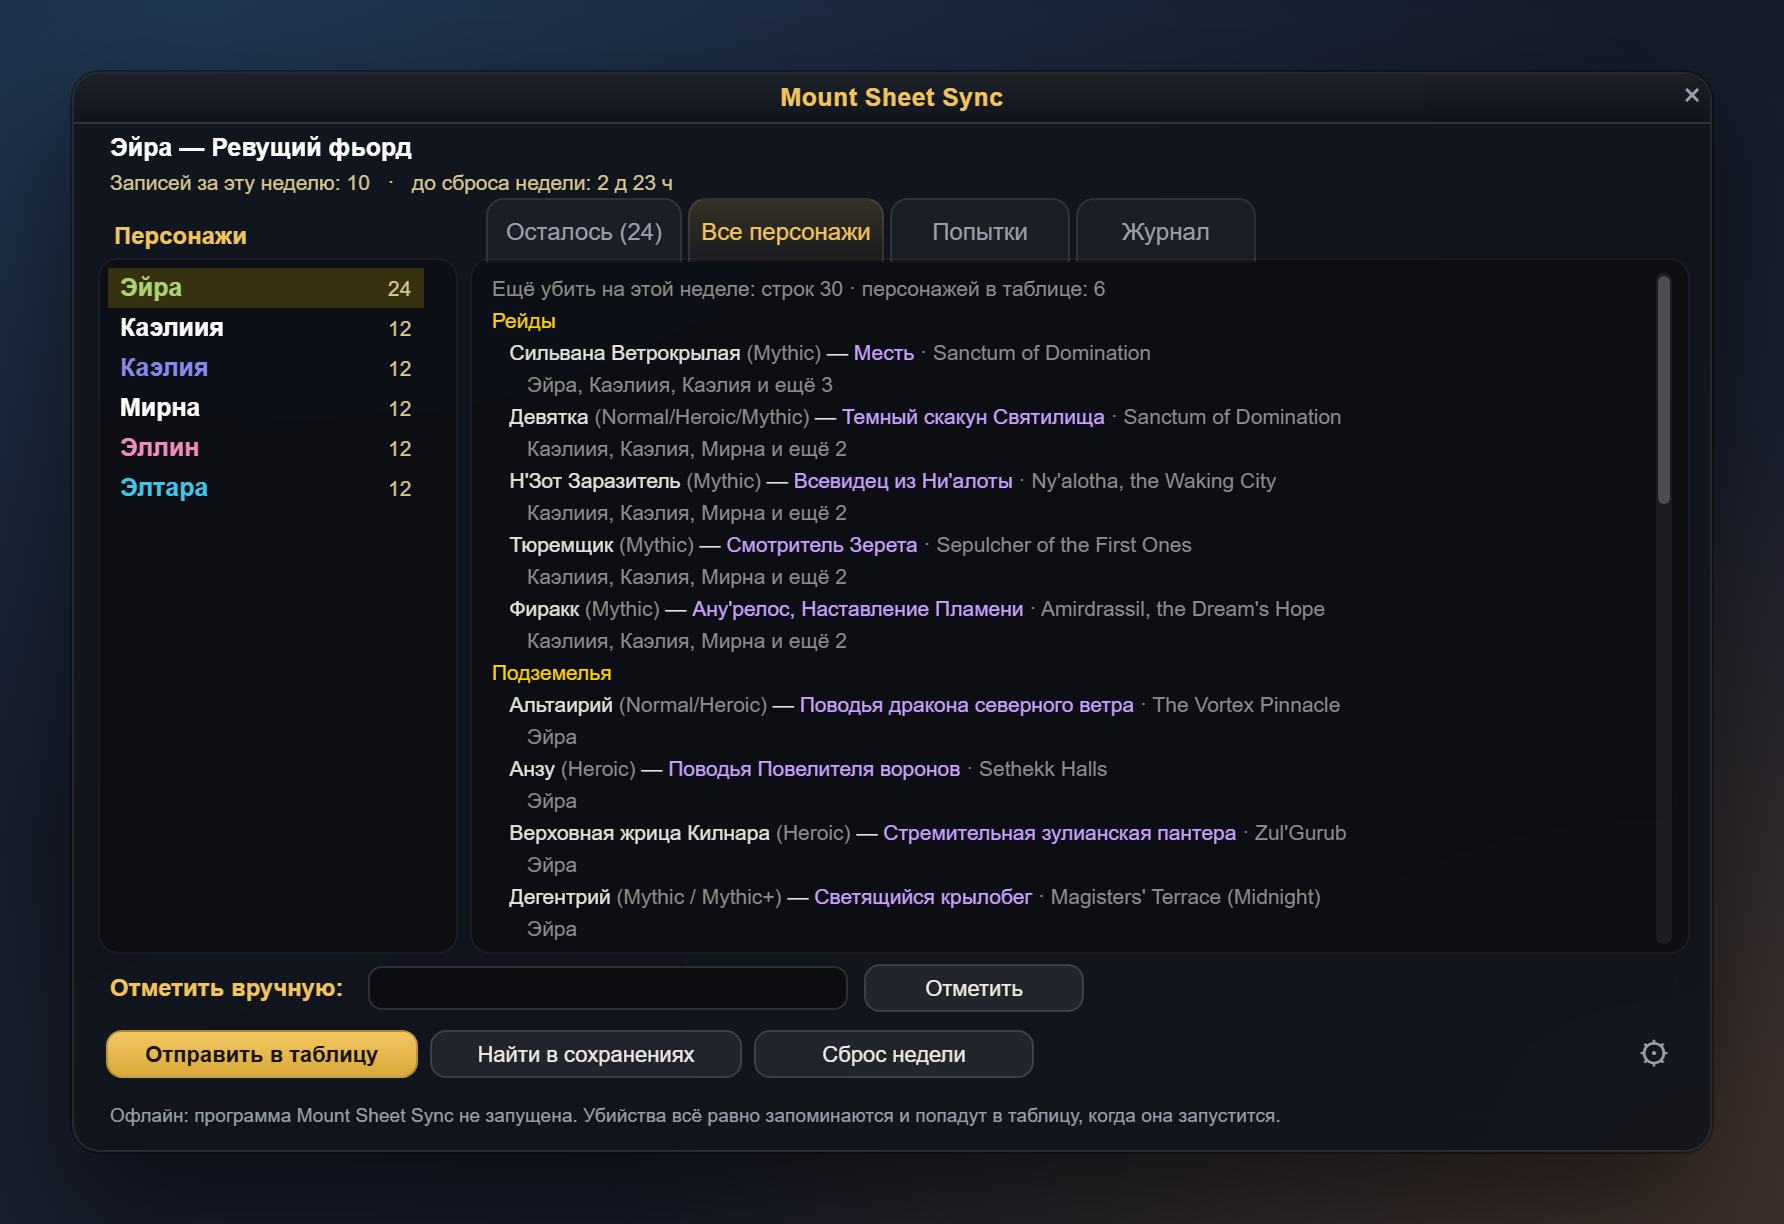
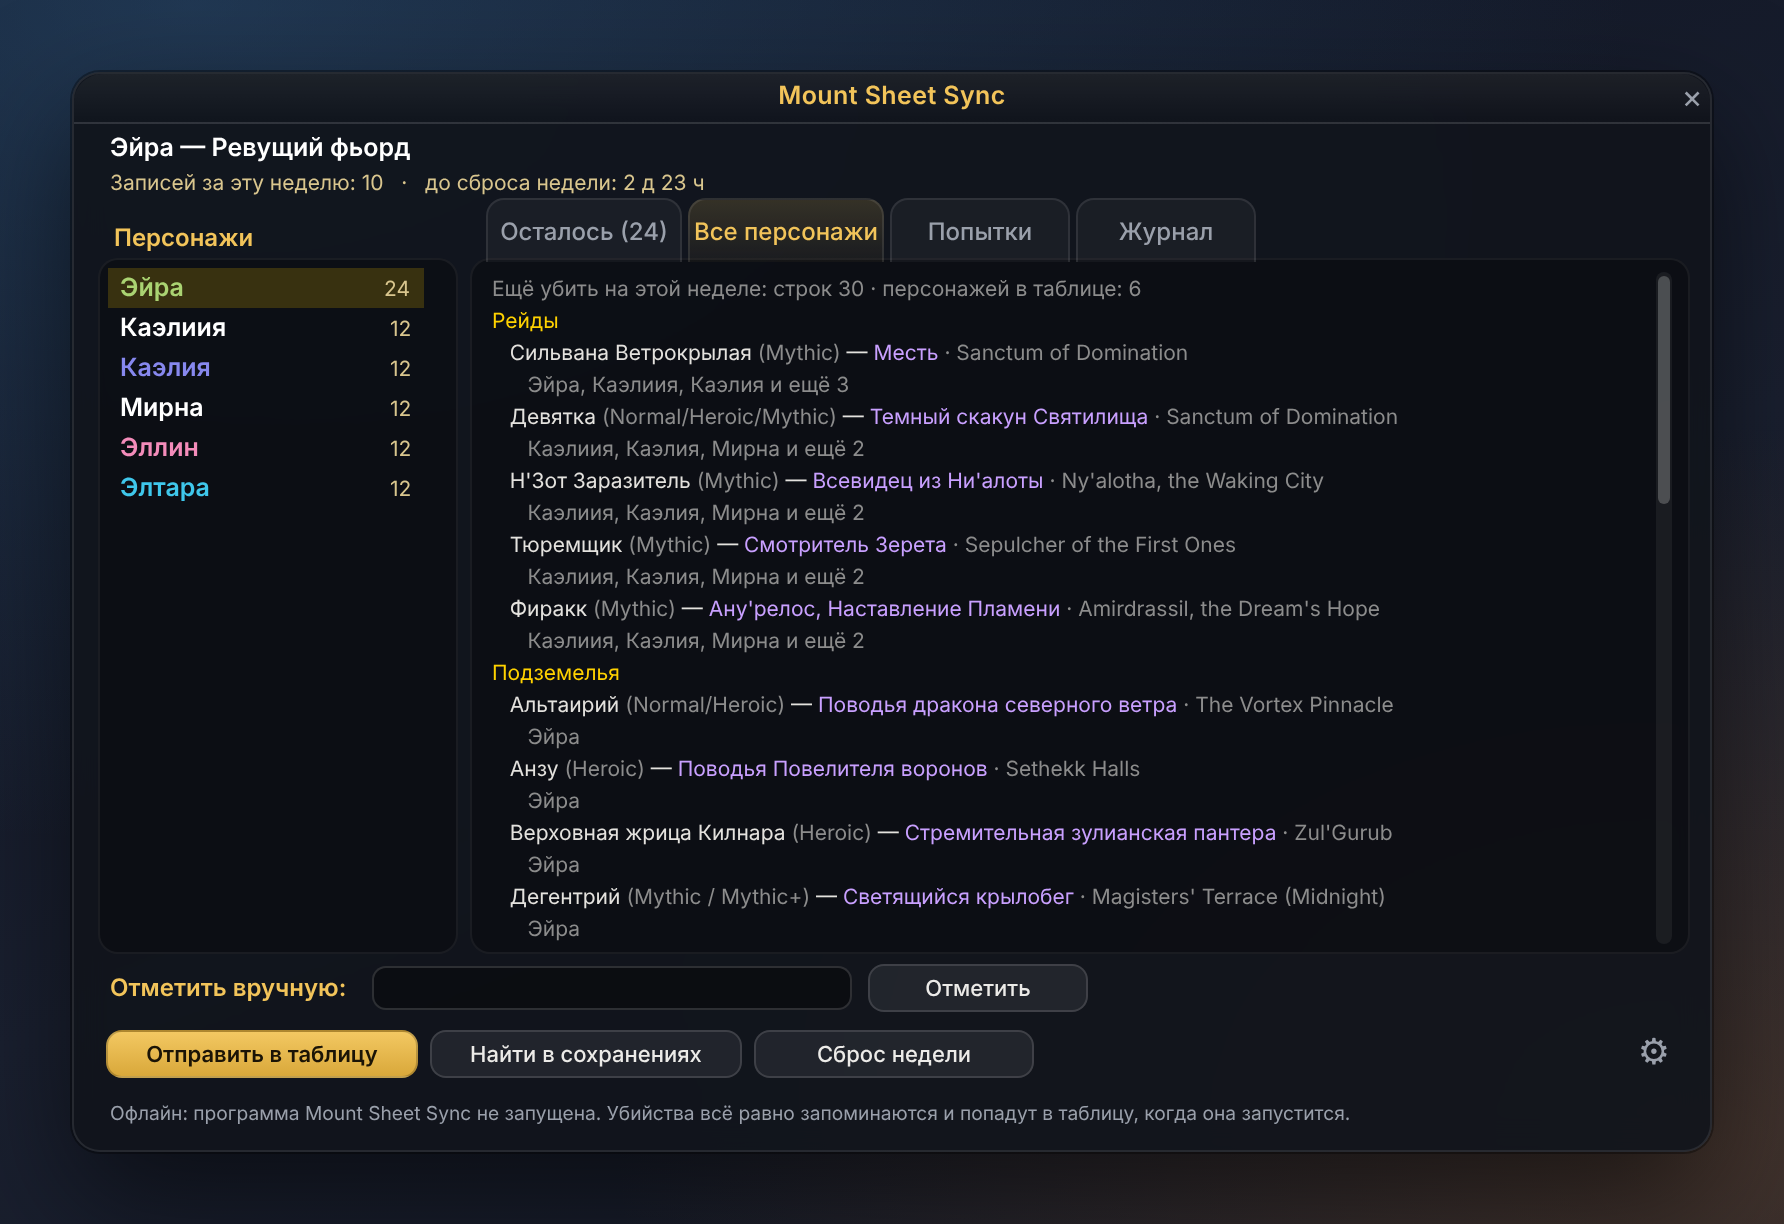
Screenshots of the 3.0 window re-rendered, new «Попытки» picture
Claude-Session: https://claude.ai/code/session_013ooh13rw8PxUmyi2riZT2N

diff --git a/tools/tests/test_addon_left.py b/tools/tests/test_addon_left.py
@@ -369,6 +369,28 @@ tabs[1].MockClick(tabs[1]); g.RunTimers()
 dump_layout(win, os.path.join(LAYOUT_DIR, "layout_all.json"))
 tabs[3].MockClick(tabs[3]); g.RunTimers()
 dump_layout(win, os.path.join(LAYOUT_DIR, "layout_log.json"))
+# «Попытки» for the picture: the fixture's sheet is older than the counter — rows like a real player's (2.9 program)
+L.execute(r"""SCREEN_MOUNTS = {
+  {p = 0.01, mount = "Пламенное Крыло Алисразор", d = {1, 2, 3, 4, 5, 6, 9, 14, 15, 150}, sheet = "Рейды", id = 425, boss = "Алисразор", diff = "Normal/Heroic", place = "Firelands", names = {"алисразор", "alysrazor"}, kind = "raid", row = 30, n = 105},
+  {p = 0.01, mount = "Эксперимент 12-Б", d = {1, 2, 3, 4, 5, 6, 9, 14, 15, 150}, sheet = "Рейды", id = 445, boss = "Ультраксион", diff = "Normal/Heroic", place = "Dragon Soul", names = {"ультраксион", "ultraxion"}, kind = "raid", row = 31, n = 96},
+  {p = 0.01, mount = "Пылающий дракон", d = {1, 2, 3, 4, 5, 6, 9, 14, 15, 150}, sheet = "Рейды", id = 442, boss = "Безумие Смертокрыла", diff = "Normal/Heroic", place = "Dragon Soul", names = {"безумие смертокрыла", "madness of deathwing"}, kind = "raid", row = 32, n = 95},
+  {p = 0.01, mount = "Служанка Хранительницы жизни", d = {2, 5, 6, 15}, sheet = "Рейды", id = 444, boss = "Безумие Смертокрыла", diff = "Heroic", place = "Dragon Soul", names = {"безумие смертокрыла", "madness of deathwing"}, kind = "raid", row = 33, n = 92},
+  {p = 0.01, mount = "Грозовой кобальтовый облачный змей", d = {}, sheet = "Мировые боссы", boss = "Налак", diff = "", place = "Isle of Thunder", names = {"налак", "nalak"}, kind = "world", row = 5, n = 59},
+  {p = 0.01, mount = "Небесный ониксовый облачный змей", d = {}, sheet = "Мировые боссы", boss = "Ша Злости", diff = "", place = "Kun-Lai Summit", names = {"ша злости", "sha of anger"}, kind = "world", row = 2, n = 55},
+  {p = 0.01, mount = "Конь смерти Ривендера", d = {1, 3, 4, 9, 14, 150}, sheet = "Подземелья", id = 69, boss = "Лорд Аурий Ривендер", diff = "Normal", place = "Stratholme", names = {"лорд аурий ривендер", "lord aurius rivendare"}, kind = "dungeon", row = 3, n = 40},
+  {p = 0.01, mount = "Сын Галеона", d = {}, sheet = "Мировые боссы", boss = "Галлеон", diff = "", place = "Valley of the Four Winds", names = {"галлеон", "galleon"}, kind = "world", row = 3, n = 32},
+  {p = 0.01, mount = "Призрачный крылобег", d = {8, 16, 23}, sheet = "Подземелья", id = 2805, boss = "Неспокойное Сердце", diff = "Mythic / Mythic+", place = "Windrunner Spire", names = {"неспокойное сердце", "restless heart"}, kind = "dungeon", row = 57, n = 18},
+}
+SCREEN_OLD = MountSheetSyncSheet
+local copy = {}
+for k, v in pairs(MountSheetSyncSheet) do copy[k] = v end
+copy.mounts = SCREEN_MOUNTS
+MountSheetSyncSheet = copy""")
+tabs[2].MockClick(tabs[2]); g.RunTimers()
+check("«Попытки» with rows (for the picture): most expected drops first", ns.GetAttemptsList()[1].name == "Пламенное Крыло Алисразор", ns.GetAttemptsList()[1].name)
+dump_layout(win, os.path.join(LAYOUT_DIR, "layout_attempts.json"))
+L.execute("MountSheetSyncSheet = SCREEN_OLD")
+tabs[0].MockClick(tabs[0]); g.RunTimers()
 g.SlashCmdList["MOUNTSHEETSYNC"]("settings"); g.RunTimers()
 sf = g.MountSheetSyncSettingsFrame
 check("settings window opens for the screenshots", sf is not None and sf._shown)

diff --git a/tools/screens/render.py b/tools/screens/render.py
@@ -17,6 +17,7 @@ SCREENS = [
     # file, layout, selected tab, buttons drawn as primary
     ("addon-remaining.png", "layout_left.json", "Осталось", ["Отправить в таблицу"]),
     ("addon-all.png", "layout_all.json", "Все персонажи", ["Отправить в таблицу"]),
+    ("addon-attempts.png", "layout_attempts.json", "Попытки", ["Отправить в таблицу"]),
     ("addon-log.png", "layout_log.json", "Журнал", ["Отправить в таблицу"]),
     ("addon-settings.png", "layout_settings.json", "", []),
 ]

diff --git a/README.ru.md b/README.ru.md
@@ -24,6 +24,10 @@
 | --- | --- | --- |
 | ![Осталось](docs/screens/addon-remaining.png) | ![Все персонажи](docs/screens/addon-all.png) | ![Настройки](docs/screens/addon-settings.png) |
 
+| Попытки | Журнал убийств |
+| --- | --- |
+| ![Попытки](docs/screens/addon-attempts.png) | ![Журнал](docs/screens/addon-log.png) |
+
 Окно аддона (русский клиент, примерные персонажи). Нарисовано по настоящей разметке аддона — те же окна, размеры и
 тексты, что он создаёт в игре, — скриптом `tools/screens/render.py`; в игре окно выглядит в стиле вашего интерфейса.
 

diff --git a/docs/reference/README.md b/docs/reference/README.md
@@ -15,7 +15,7 @@
 | [decisions.md](decisions.md) | Принятые решения и ограничения (правила CurseForge/Blizzard, квоты Google и т. п.) |
 
 Картинки — в [docs/screens](../screens): `sheet.png`, `program-menu.png`, `program-settings.png`,
-`addon-log.png`, `addon-remaining.png`, `addon-settings.png` (их же использует README и страница CurseForge).
+`addon-log.png`, `addon-remaining.png`, `addon-all.png`, `addon-attempts.png`, `addon-settings.png` (их же использует README и страница CurseForge).
 
 ## Правила ведения
 

diff --git a/README.md b/README.md
@@ -30,6 +30,10 @@ Portuguese spreadsheets.
 | --- | --- | --- |
 | ![Remaining](docs/screens/addon-remaining.png) | ![All characters](docs/screens/addon-all.png) | ![Settings](docs/screens/addon-settings.png) |
 
+| Attempts | Kill log |
+| --- | --- |
+| ![Attempts](docs/screens/addon-attempts.png) | ![Kill log](docs/screens/addon-log.png) |
+
 The addon window (Russian game client, sample characters). Drawn from the addon's real layout — the same frames,
 sizes and texts it creates in the game — with `tools/screens/render.py`; the in-game look follows your UI.
 
